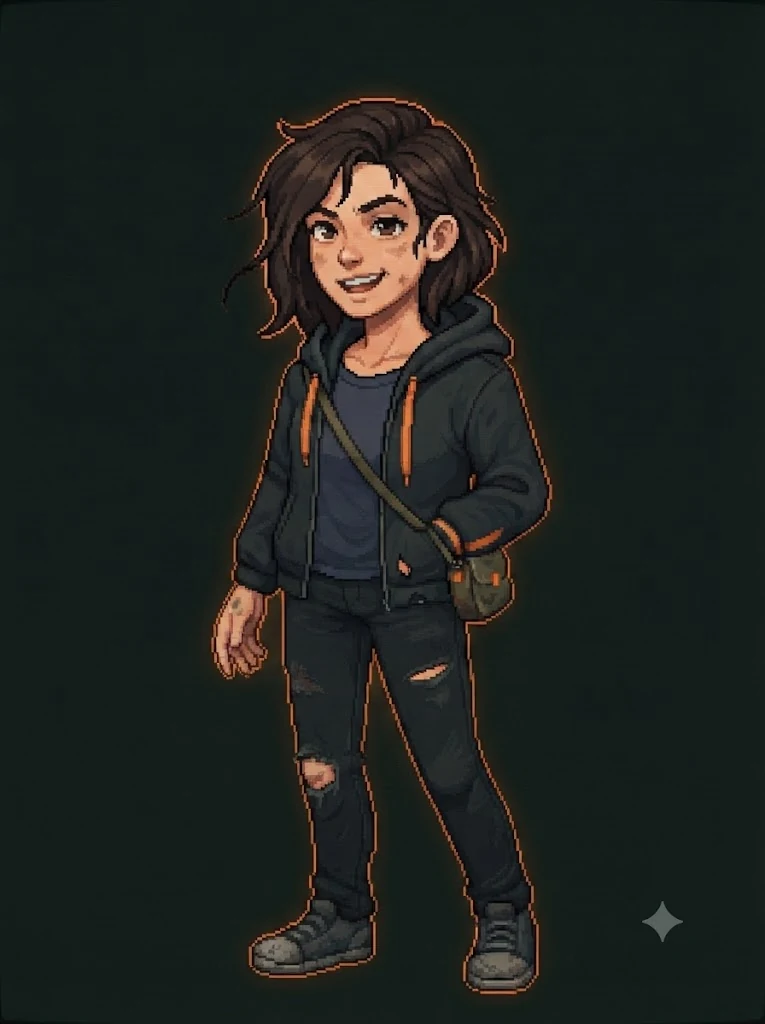
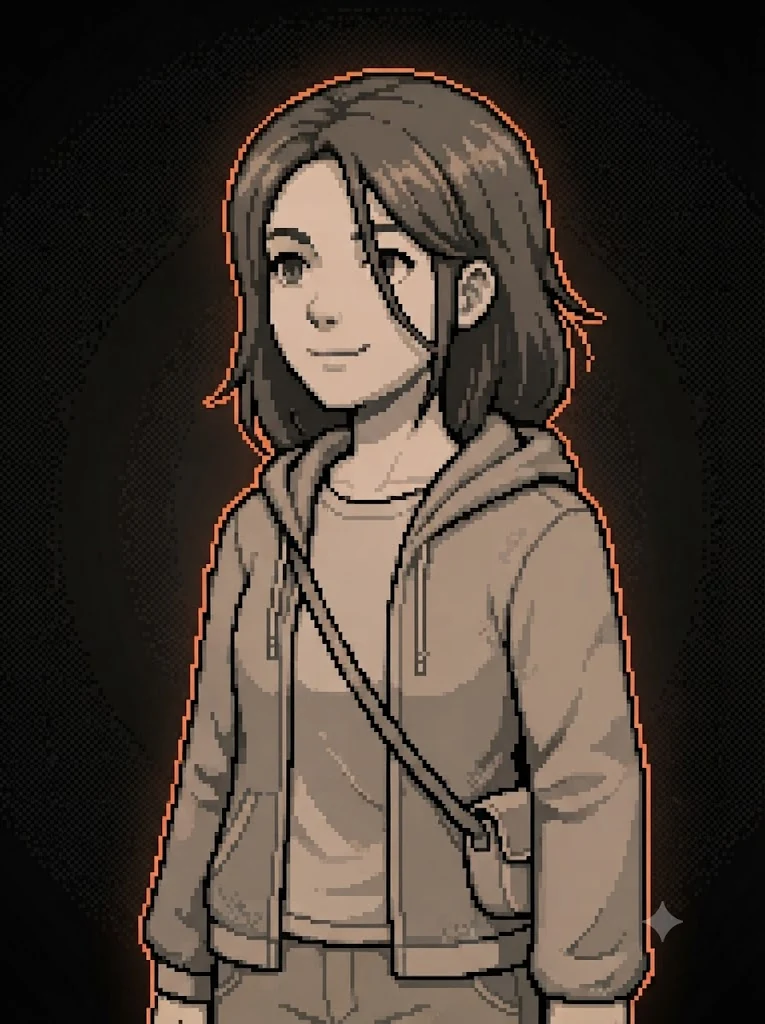
데이지 그림을 나머지 셋과 같은 화풍으로 갈아 끼운다
예전 그림만 화풍이 달랐다 — 전신이 작게 떠 있고, 자연색이고, 곱게 칠해져 있고,
활짝 웃고 있었다. 나머지 셋은 허리 위 구도에 키컬러 단색 틴트, 또렷한 네온
림라이트, 굵은 픽셀 격자다. 옷차림으로 말해야 할 「외지인」을 화풍이 대신 말하고
있었고, 그래서 다른 게임에서 가져온 그림처럼 보였다.

크롭 배율도 같이 내렸다. 옛 그림은 얼굴을 잡으려고 1.82 배까지 당겨야 했는데
새 그림은 나머지와 같은 구도라 1.30 이면 된다. 생성기 별은 이 그림에서 세로
85.9% 부터라, 보이는 아래끝 79.2% 로 넉넉히 밖에 남는다.

Claude-Session: https://claude.ai/code/session_01UuUqUWanvK6ZQmbjJQN1U3

diff --git a/index.html b/index.html
@@ -4486,10 +4486,14 @@ const FLIP_PORTRAIT={submarine:["yutaeo"]};
    전부 같은 자리다 — 원본 765×1024 기준 x 642~682(83.9~89.2%), y 901~941(88.0~91.9%).
    [배율, 창의 위 가장자리]로 적는다. 보이는 세로 구간은 [f(1−1/z), f+(1−f)/z] 이고,
    여기 값은 아래끝이 전부 0.75 언저리라 그 모서리가 화면 밖으로 나간다.
-   배율을 하나로 통일하지 않은 이유: 데이지는 전신이 작게 그려져 있어 같은 배율로는
-   얼굴이 안 잡히고, 데이비드는 머리가 화면 맨 위에 붙어 있어 크게 당기면 정수리가 잘린다. */
+   배율을 하나로 통일하지 않은 이유: 데이비드는 머리가 화면 맨 위에 붙어 있어 크게
+   당기면 정수리가 잘린다.
+   ※ 데이지는 그림을 다시 받았다(2026-08-05). 예전 것은 «전신이 작게» 그려져 있어
+     1.82 배까지 당겨야 얼굴이 잡혔는데, 새 그림은 나머지 셋과 같은 허리 위 구도라
+     1.30 이면 된다. 별도 이 그림에서는 세로 85.9% 부터 시작하므로, 보이는 아래끝
+     79.2% 로 넉넉히 밖에 남는다. */
 const PORTRAIT_CROP={
-  rule_the_day:{ david:[1.43,6.6], damon:[1.43,16.6], daisy:[1.82,15.5], victim:[1.49,9.1] }
+  rule_the_day:{ david:[1.43,6.6], damon:[1.43,16.6], daisy:[1.30,10.0], victim:[1.49,9.1] }
 };
 /* 표에 없는 사건도 별은 잘려 나가야 한다 — 보이는 구간이 세로 4~69%인 안전값 */
 const PORTRAIT_CROP_DEF=[1.55,12];
